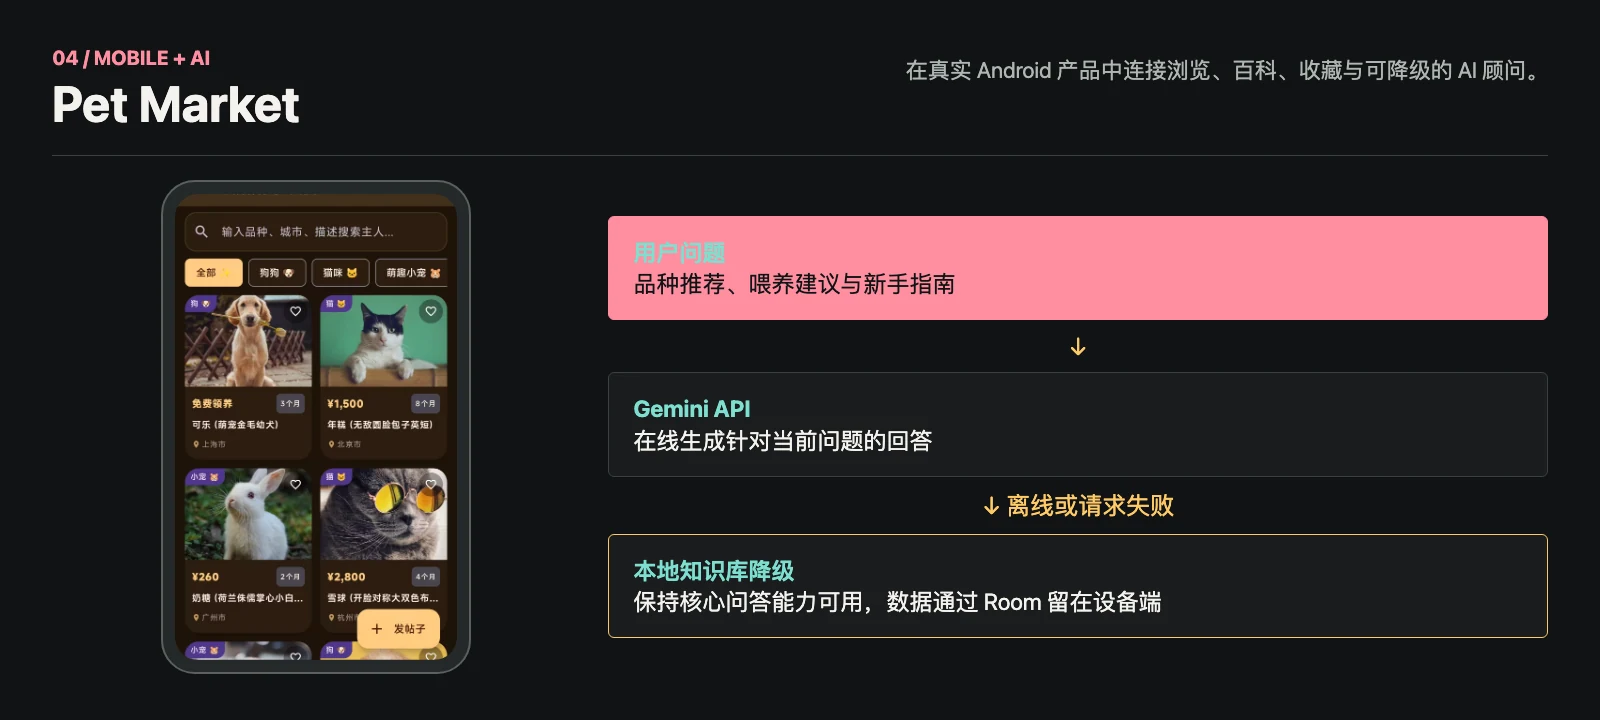
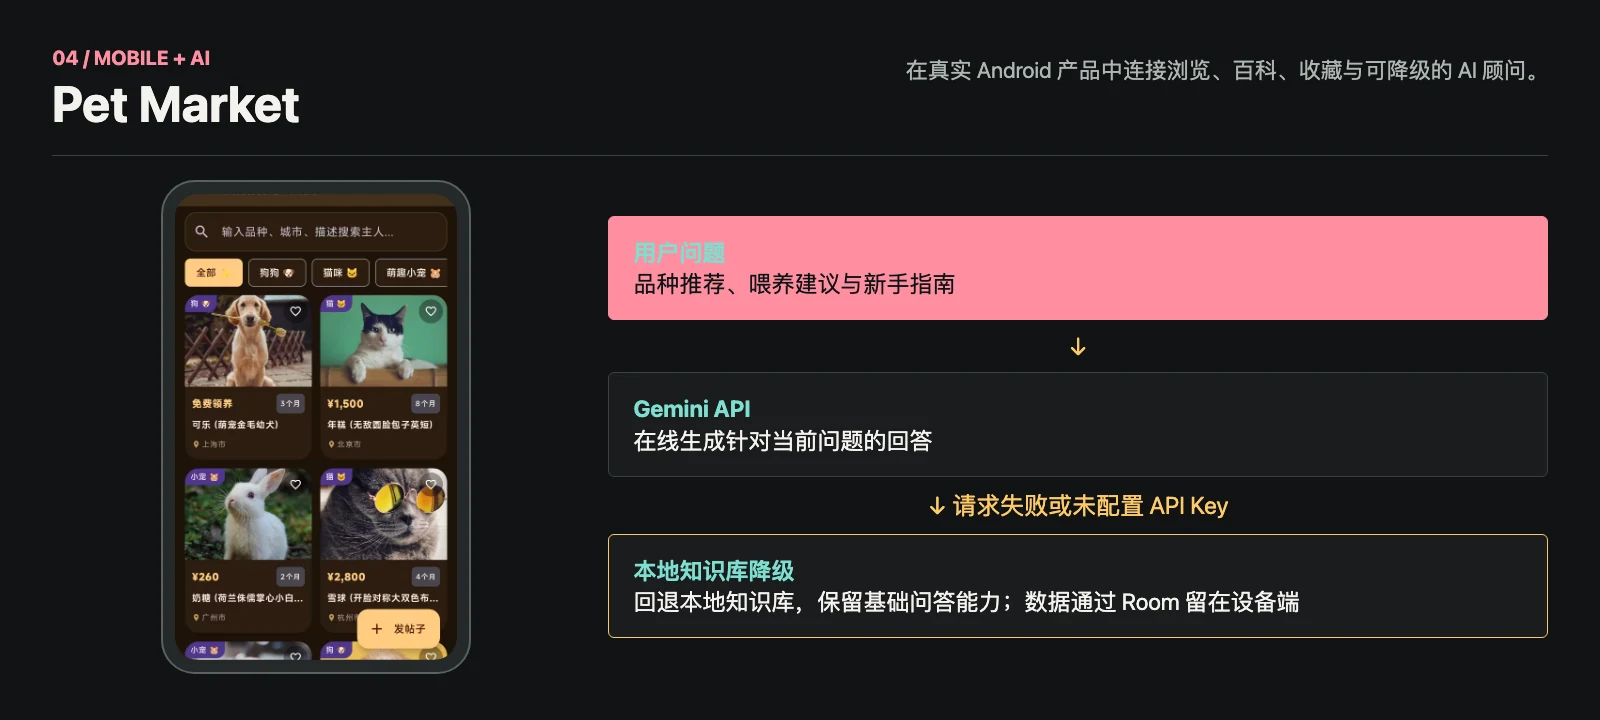
fix: clarify project implementation details

Changed region(s): [[0.375, 0.825, 0.8125, 0.8556], [0.5938, 0.6722, 0.7812, 0.7333]]

diff --git a/scripts/profile-assets.html b/scripts/profile-assets.html
@@ -353,7 +353,7 @@
     </div>
     <div class="flow">
       <div class="stage"><div><div class="stage-no">INPUT</div><h2>数据进入</h2><p>排课 Excel、教师自主申报与规则参数统一进入系统。</p></div><strong>Apache POI / Validation</strong></div>
-      <div class="stage"><div><div class="stage-no">ENGINE</div><h2>策略计算</h2><p>G1-G11 通过策略接口动态分发，规则参数由 Redis 缓存。</p></div><strong>Java / Spring Boot</strong></div>
+      <div class="stage"><div><div class="stage-no">ENGINE</div><h2>策略计算</h2><p>G1-G6 与 G11 由策略引擎计算，G7/G10 汇总，G8/G9 支持申报。</p></div><strong>Java / Spring Boot</strong></div>
       <div class="stage"><div><div class="stage-no">WORKFLOW</div><h2>三级审批</h2><p>教师、教务助理与院领导按权限完成申报、审核与签字。</p></div><strong>Security / JWT</strong></div>
       <div class="stage"><div><div class="stage-no">OUTPUT</div><h2>汇总报表</h2><p>生成个人明细、绩效酬金统计和管理仪表盘。</p></div><strong>Vue 3 / MySQL</strong></div>
     </div>
@@ -400,8 +400,8 @@
         <div class="ai-step primary"><strong>用户问题</strong><br>品种推荐、喂养建议与新手指南</div>
         <div class="arrow">↓</div>
         <div class="ai-step"><strong>Gemini API</strong><br>在线生成针对当前问题的回答</div>
-        <div class="arrow">↓ 离线或请求失败</div>
-        <div class="ai-step fallback"><strong>本地知识库降级</strong><br>保持核心问答能力可用，数据通过 Room 留在设备端</div>
+        <div class="arrow">↓ 请求失败或未配置 API Key</div>
+        <div class="ai-step fallback"><strong>本地知识库降级</strong><br>回退本地知识库，保留基础问答能力；数据通过 Room 留在设备端</div>
       </div>
     </div>
   </section>

diff --git a/README.md b/README.md
@@ -46,7 +46,7 @@
 
 ### WFIT Workload
 
-面向教学工作量核算的全流程业务系统。通过策略模式承载 G1-G11 共 11 类计算规则，连接排课 Excel 导入、教师申报、三级审批、绩效酬金与报表导出。
+面向教学工作量核算的全流程业务系统。覆盖 G1-G11 共 11 类核算口径：G1-G6 与 G11 由策略引擎计算，G7/G10 自动汇总，G8/G9 支持教师申报，并连接排课 Excel 导入、三级审批、绩效酬金与报表导出。
 
 <p align="center">
   <img src="./assets/projects/wfit-system.webp" width="100%" alt="WFIT Workload 从数据输入、策略计算、三级审批到报表输出的系统流程">
@@ -82,7 +82,7 @@
 
 ### Pet Market
 
-面向猫狗浏览与品种百科的 Android 应用，包含收藏、内容检索和 Gemini AI 顾问。在线请求不可用时自动切换到本地知识库，保证核心问答路径仍然可用。
+面向猫狗浏览与品种百科的 Android 应用，包含收藏、内容检索和 Gemini AI 顾问。在线请求不可用或未配置 API Key 时自动切换到本地知识库，保留基础问答能力。
 
 <p align="center">
   <img src="./assets/projects/pet-market-ai.webp" width="100%" alt="Pet Market 真实移动端界面以及 Gemini API 到本地知识库的降级流程">
